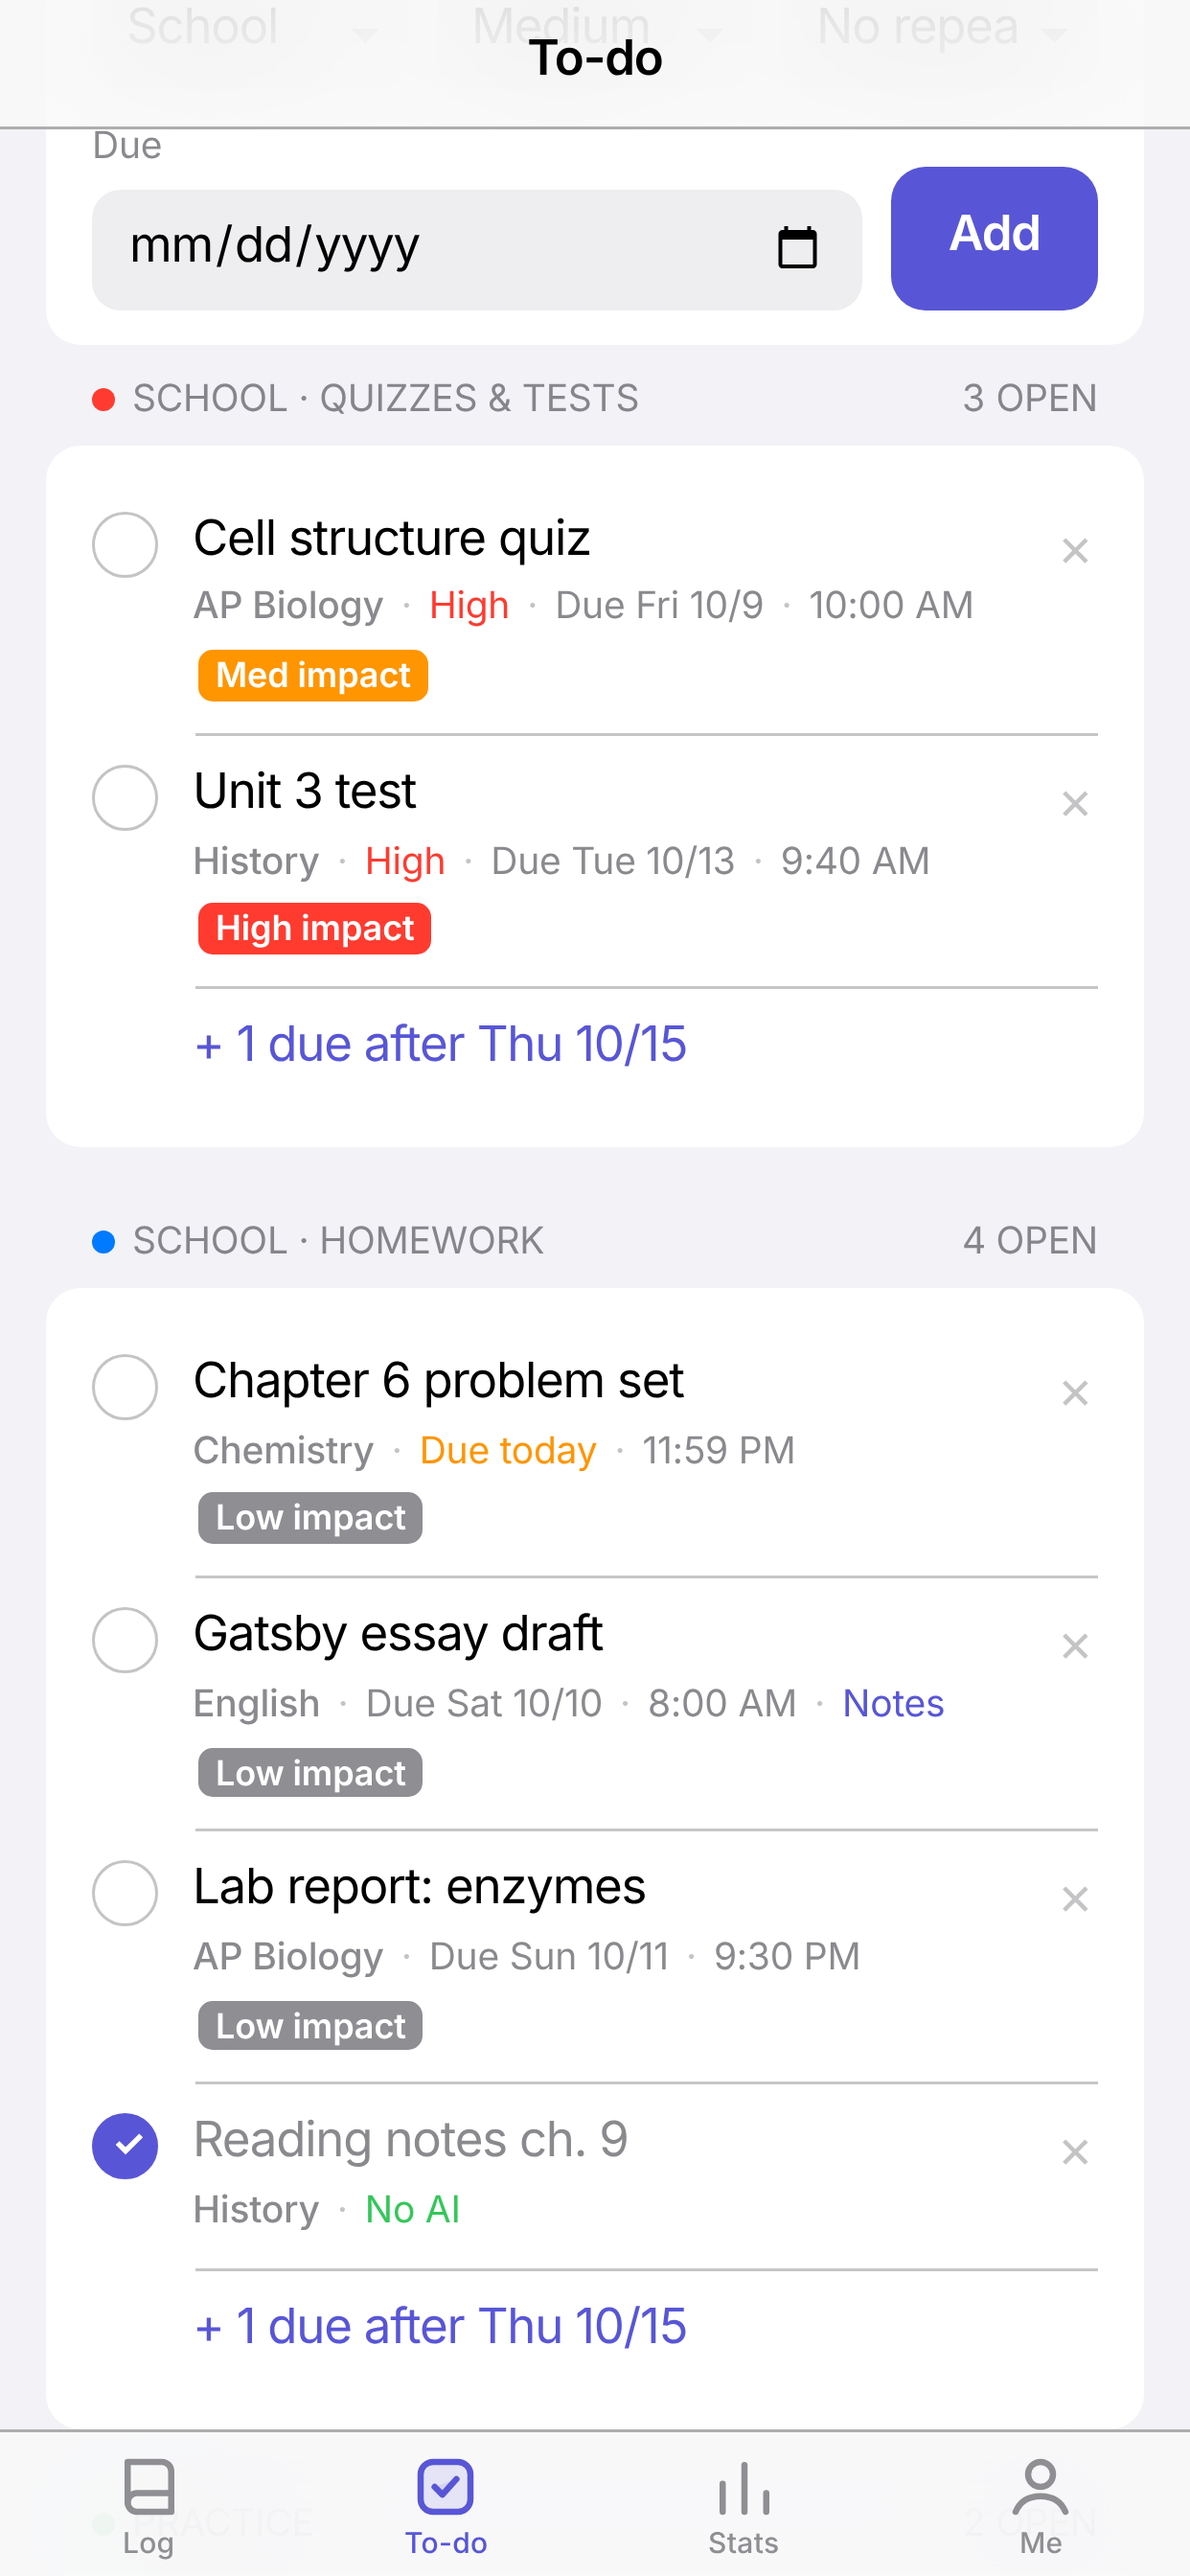
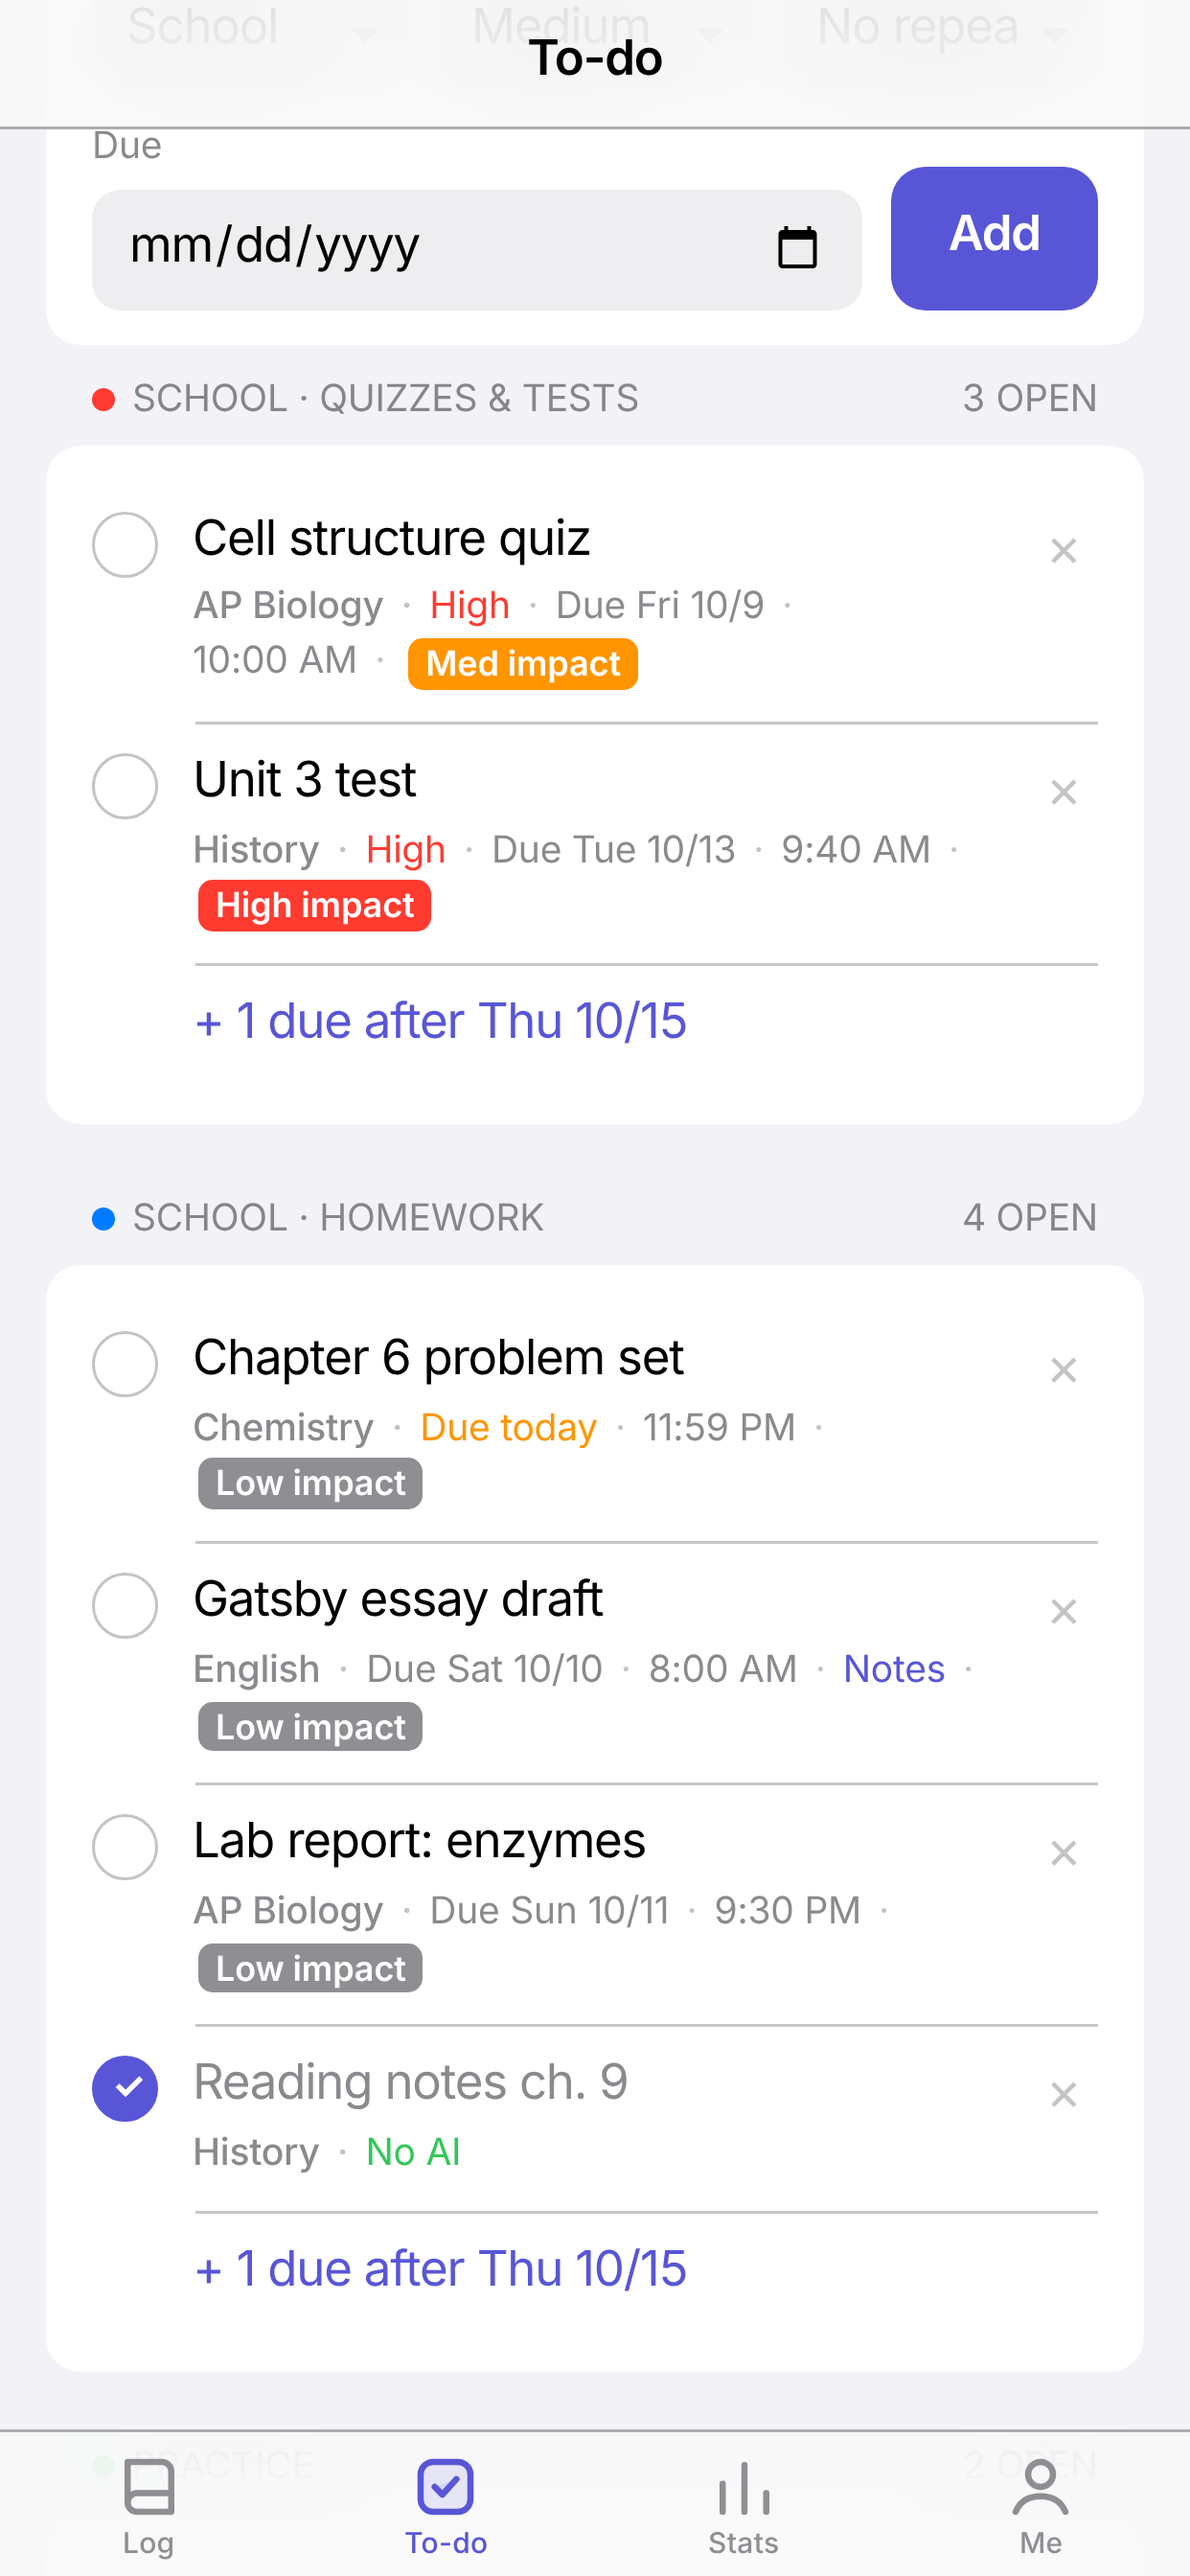
Cleaner wrapping for to-do details; refreshed store screenshots
Claude-Session: https://claude.ai/code/session_017cPXXGBkdv3STvGswMMRiP

diff --git a/sw.js b/sw.js
@@ -1,6 +1,6 @@
 /* Network-first for the app's own files so updates show up on the next open;
    falls back to the cached copy when offline. GitHub API calls are never cached. */
-const CACHE = "journal-junkie-v6";
+const CACHE = "journal-junkie-v7";
 const SHELL = ["./", "index.html", "style.css", "store.js", "app.js", "manifest.webmanifest", "icons/icon-192.png", "icons/apple-touch-icon.png", "config.js"];
 self.addEventListener("install", e => { e.waitUntil(caches.open(CACHE).then(c => c.addAll(SHELL)).then(() => self.skipWaiting())); });
 self.addEventListener("activate", e => { e.waitUntil(caches.keys().then(ks => Promise.all(ks.filter(k => k !== CACHE).map(k => caches.delete(k)))).then(() => self.clients.claim())); });

diff --git a/style.css b/style.css
@@ -140,7 +140,8 @@ input[type=date],input[type=datetime-local]{min-height:38px}
 .task .meta{display:flex;gap:6px;flex-wrap:wrap;margin-top:4px}
 section>div>.more{position:relative;display:block;width:100%;padding:11px 0 11px 35px}
 .tag{font-size:13px;letter-spacing:-.08px;color:var(--label2);padding:0}
-.tag+.tag::before{content:"·";margin-right:6px;color:var(--label3)}
+.meta .tag:not(:last-child)::after{content:"·";margin-left:6px;color:var(--label3)}
+.meta{column-gap:6px!important;row-gap:2px!important}
 .tag.cls{color:var(--label2);font-weight:500}
 .tag.high{color:var(--red)}
 .tag.today{color:var(--orange)}
